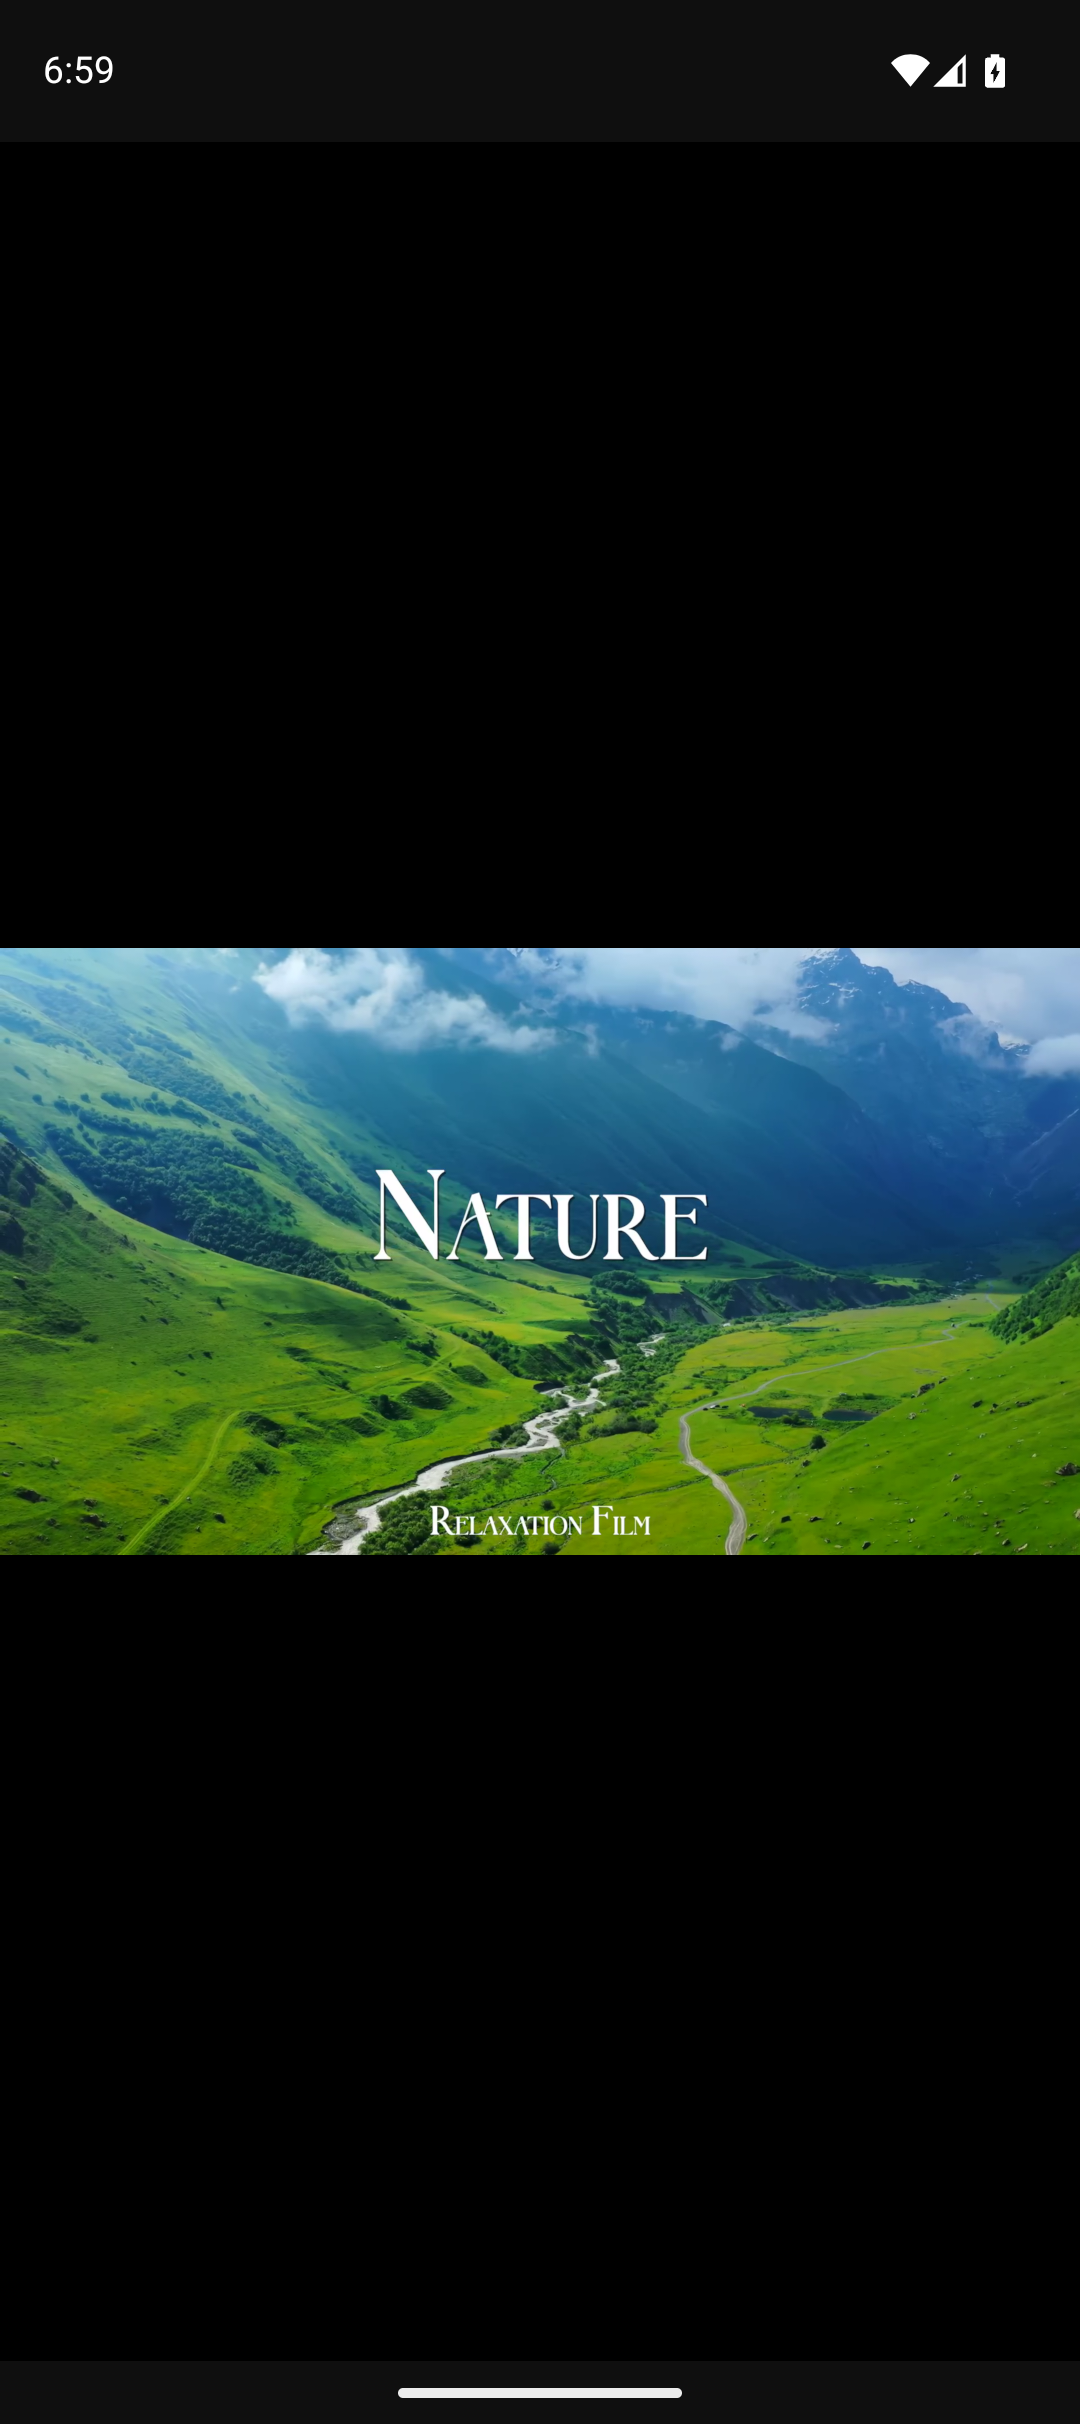
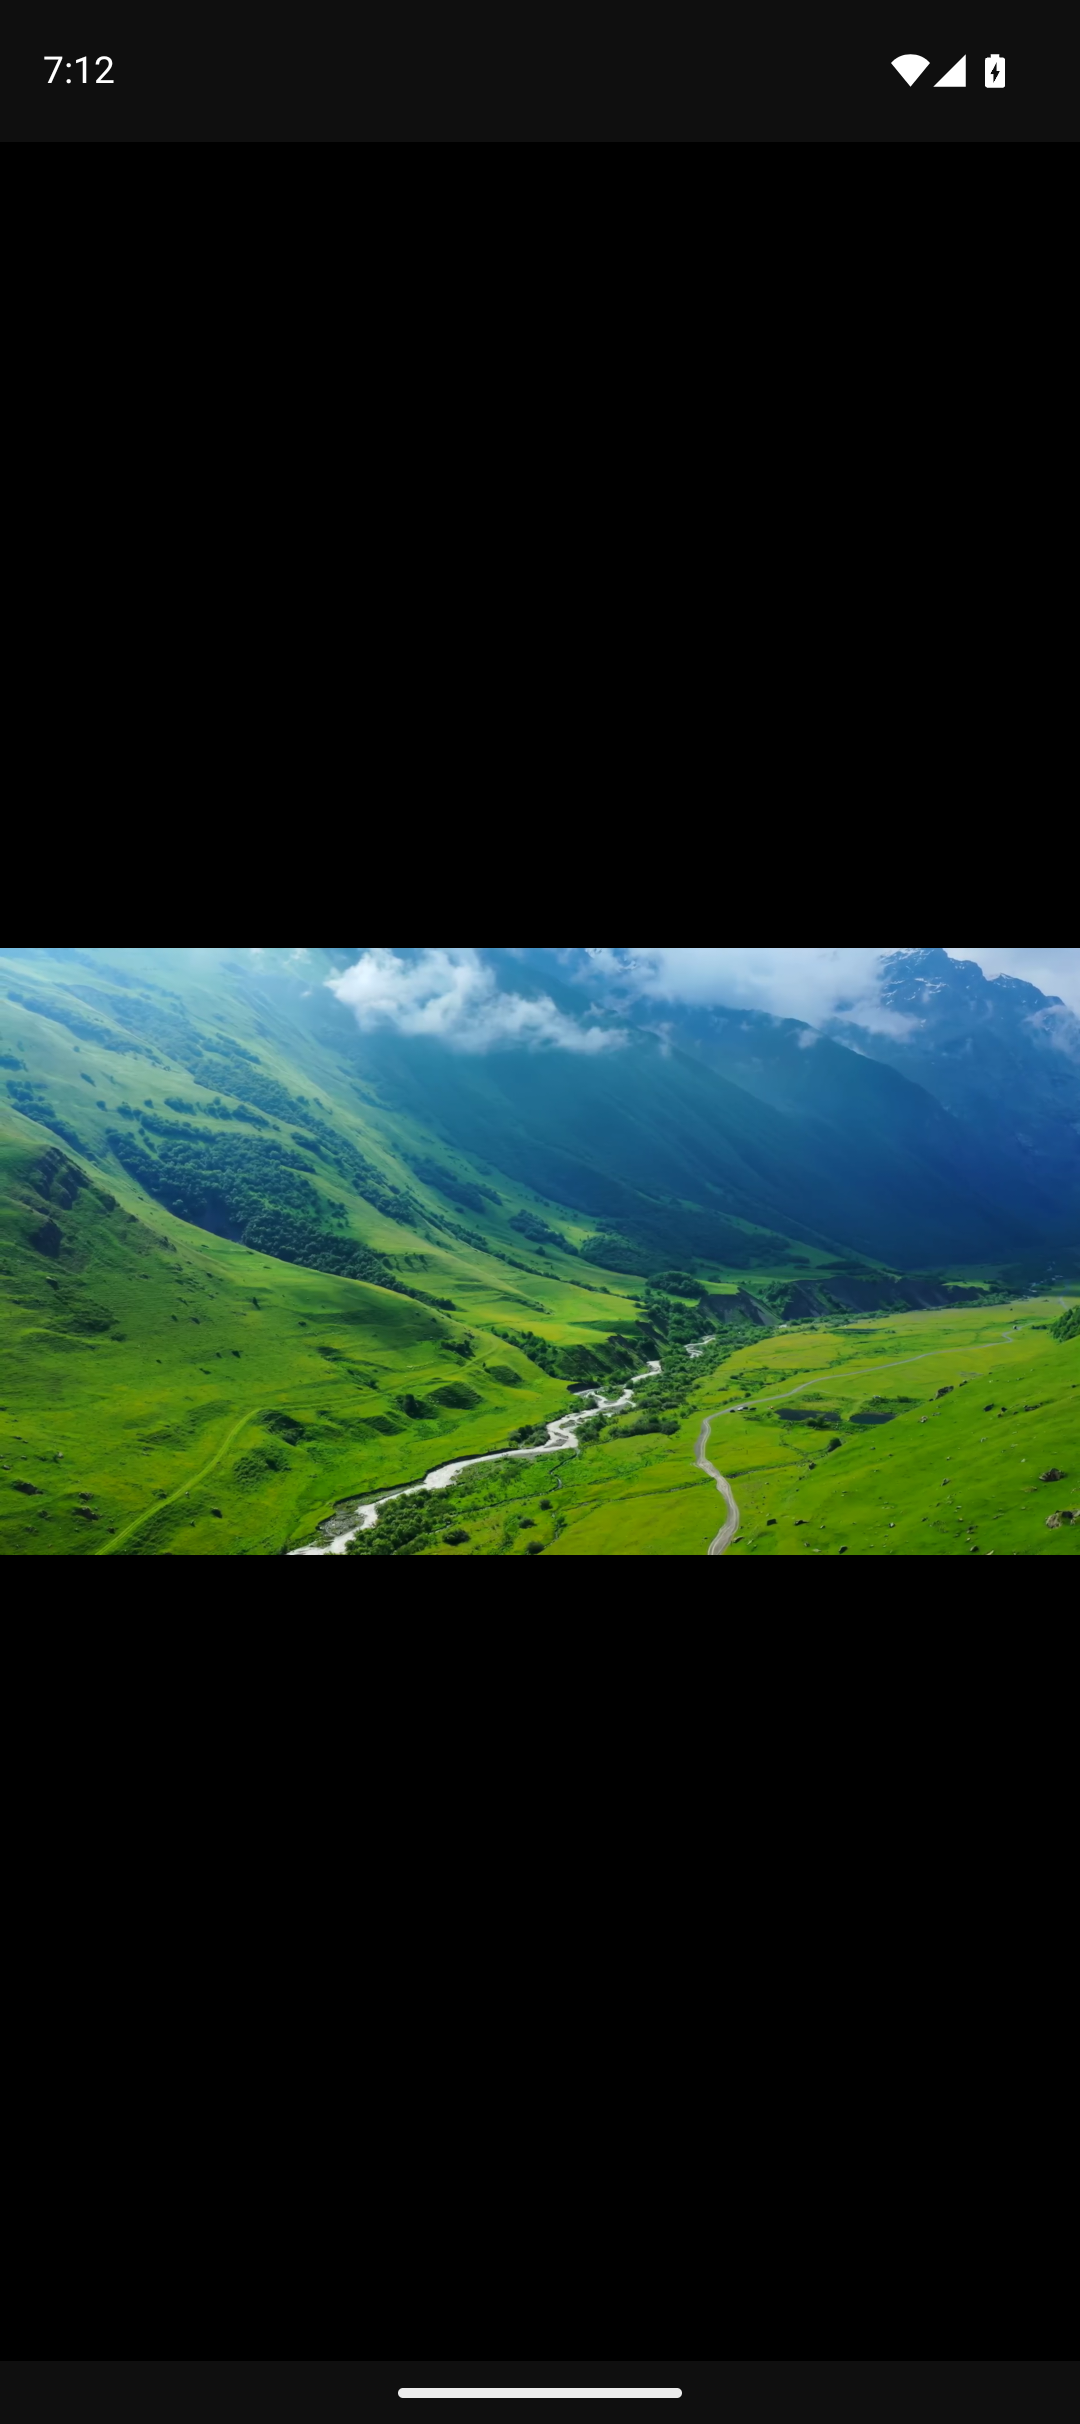
docs: 新增全屏铺满与播放队列截图（8 张，全部经尺寸/像素差异校验）

Changed region(s): [[0.0, 0.3713, 1.0, 0.6498], [0.8861, 0.6188, 0.9472, 0.6498]]

diff --git a/README.md b/README.md
@@ -69,6 +69,12 @@ Android 原生播放器（Kotlin + Jetpack Compose + Material 3），基于 **li
 |---|---|---|
 | ![home](docs/screenshots/01-home-screen.png) | ![search](docs/screenshots/02-search-results.png) | ![playing](docs/screenshots/03-now-playing.png) |
 
+### 全屏与队列
+
+| 全屏铺满（消除左右黑边） | 播放队列 | |
+|---|---|---|
+| ![fullscreen](docs/screenshots/04-fullscreen.png) | ![queue](docs/screenshots/05-queue.png) | |
+
 ### 本地库 · 设置 · 存储
 
 | 本地库（排序 / 搜索 / 重命名） | 设置（播放偏好 / 音质上限 / 铺满屏幕） | 存储管理（2GB LRU） |
